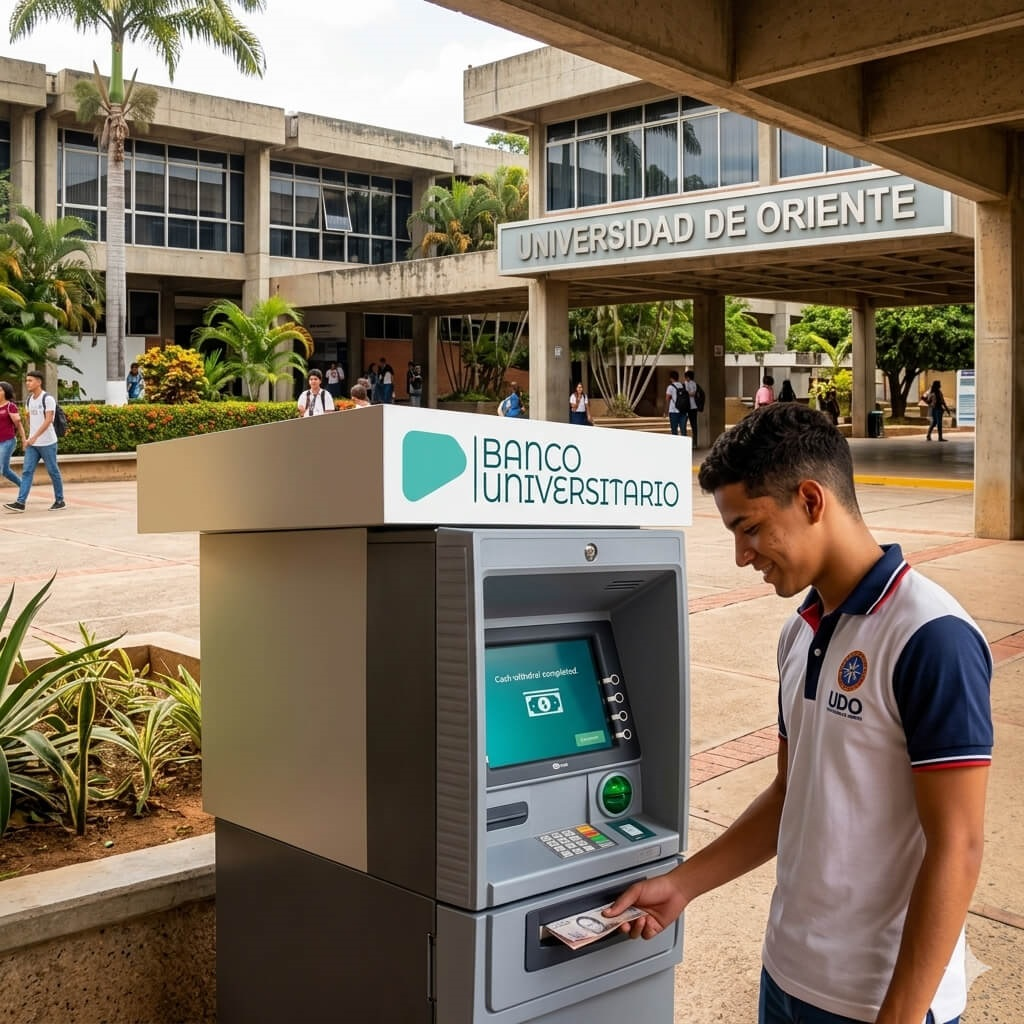
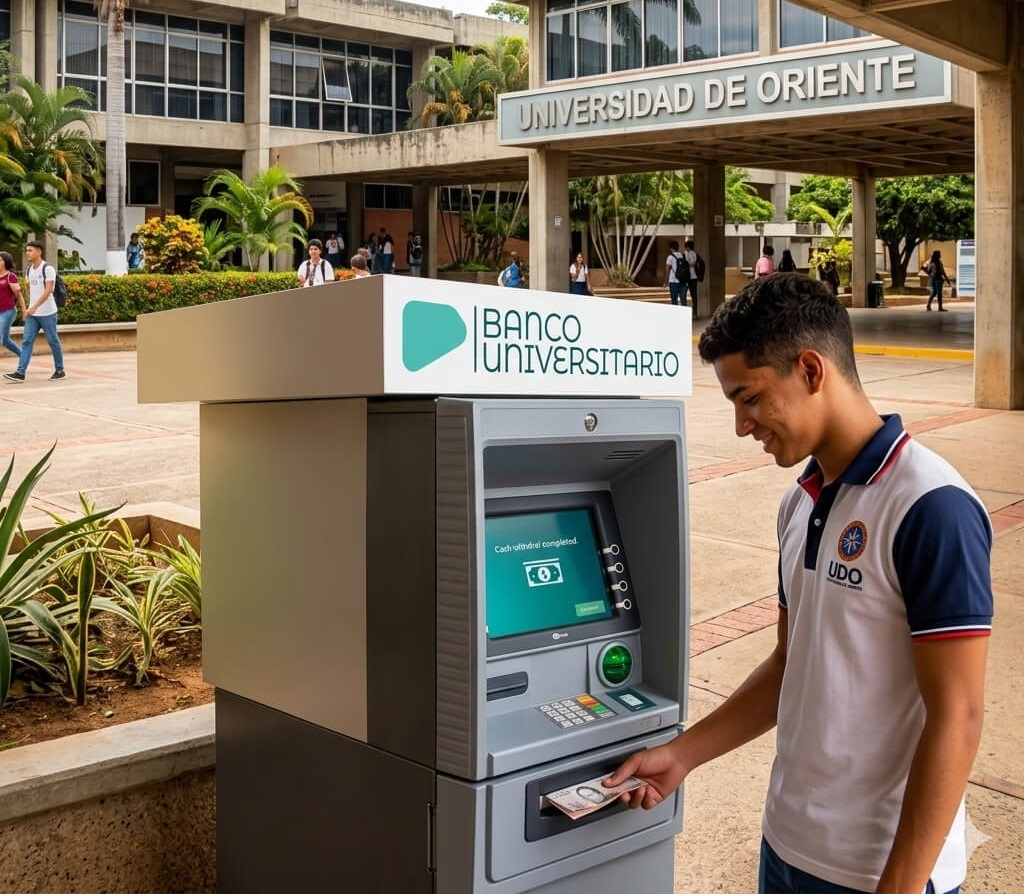
fix(AlianzasView): apply corrections

diff --git a/src/views/AlianzasView.vue b/src/views/AlianzasView.vue
@@ -45,7 +45,7 @@ const privileges = [
 </script>
 
 <template>
-  <section class="pt-20 pb-32 bg-brand-bg">
+  <section class="pt-20 pb-16 bg-brand-bg">
     <div class="grid grid-cols-1 lg:grid-cols-2 gap-12 px-6">
       <div class="flex flex-col gap-6">
         <span
